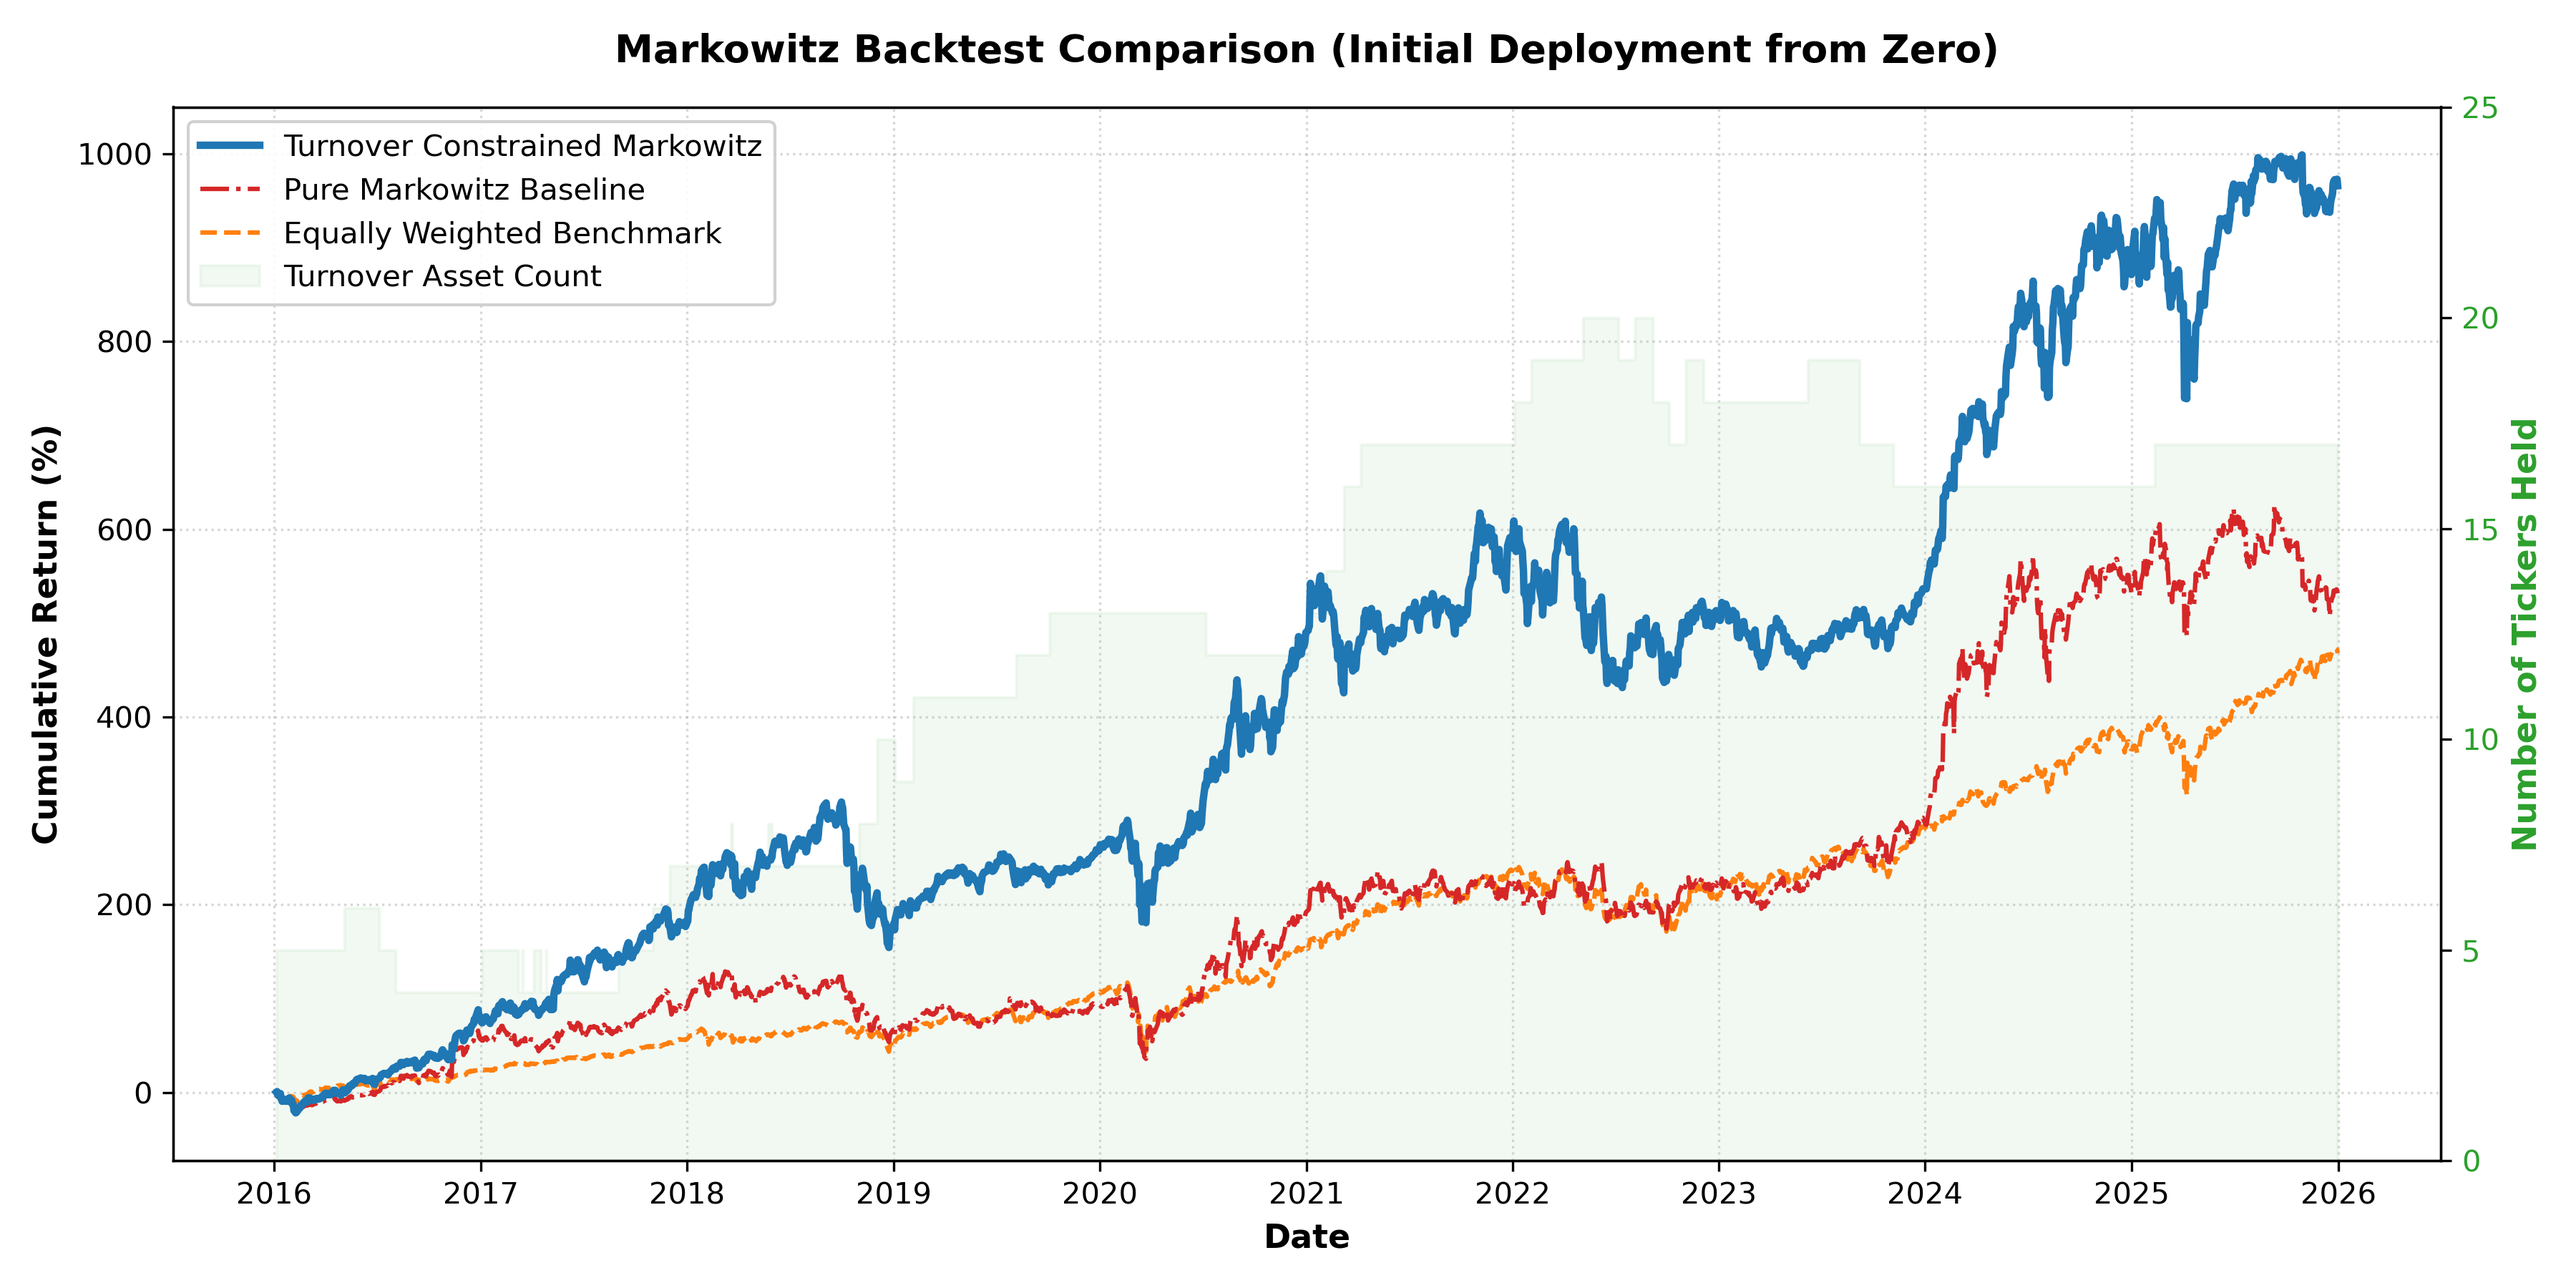
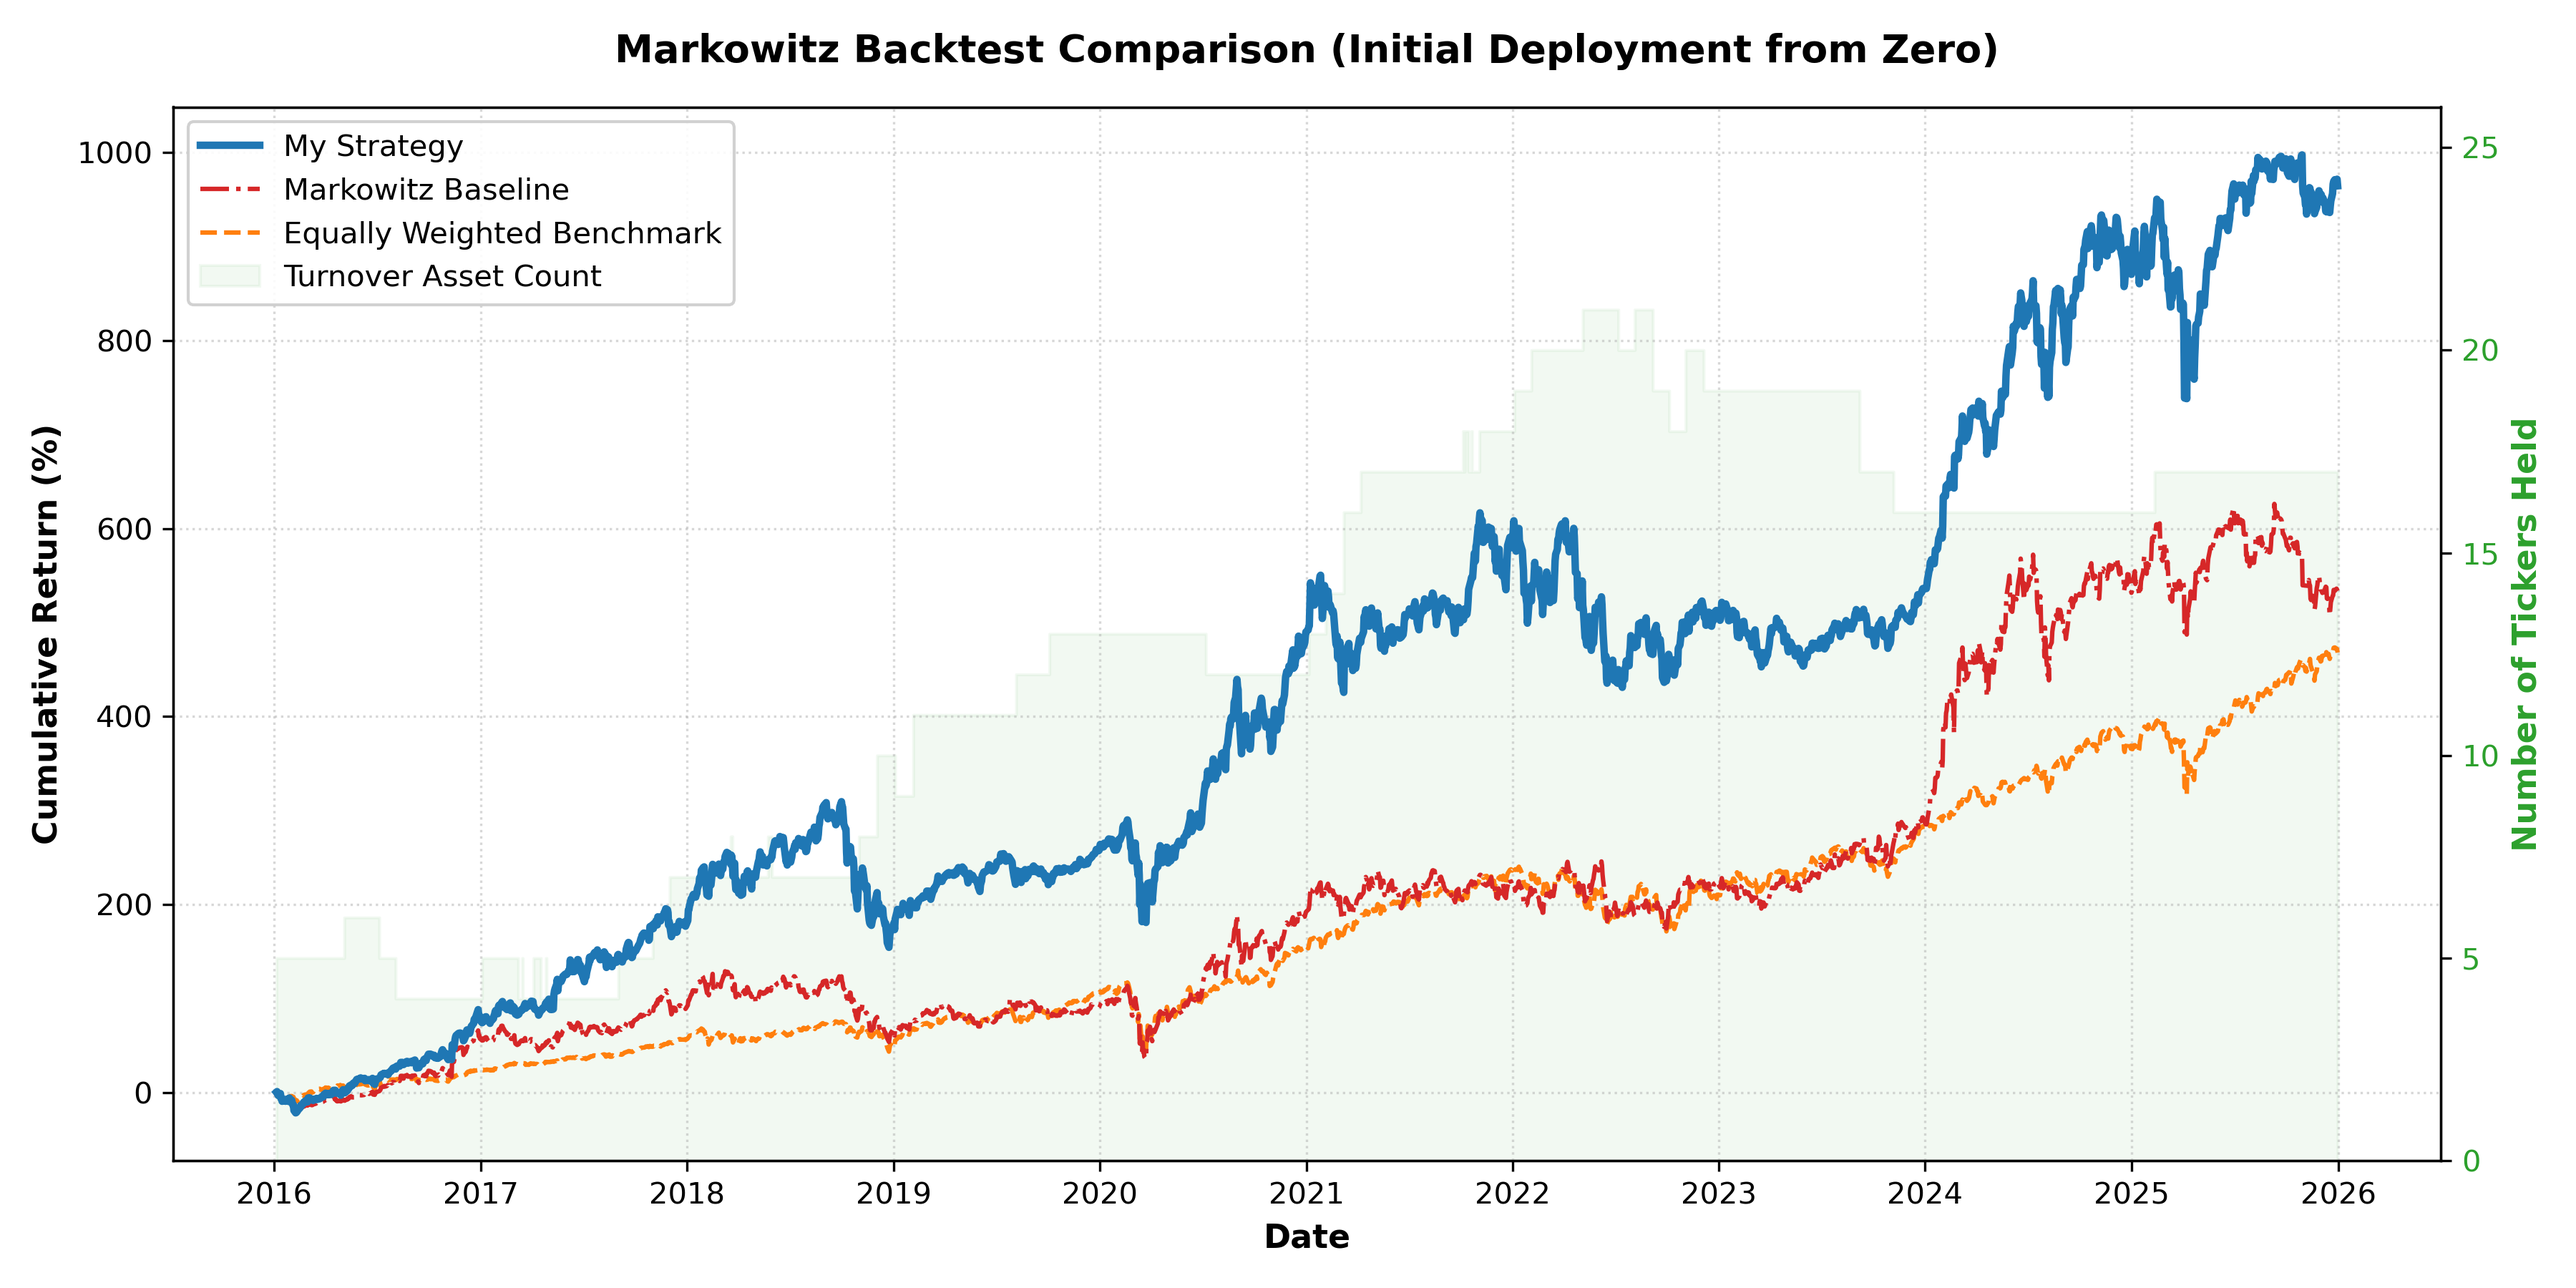
backtest again

diff --git a/backtest0.py b/backtest0.py
@@ -136,8 +136,8 @@ def evaluate_metrics(results_df, df_returns):
     results_df["Benchmark"] = benchmark_returns
 
     strategies = {
-        "Turnover Constrained Markowitz": "Strategy_Turnover",
-        "Pure Markowitz (Baseline)": "Strategy_Baseline",
+        "My Strategy": "Strategy_Turnover",
+        "Markowitz Baseline": "Strategy_Baseline",
         "Equally Weighted S&P 100 Index": "Benchmark",
     }
 
@@ -169,8 +169,8 @@ def plot_comparative_results(results_df):
     cum_baseline = (1 + results_df["Strategy_Baseline"]).cumprod() - 1
     cum_benchmark = (1 + results_df["Benchmark"]).cumprod() - 1
 
-    ax1.plot(cum_turnover.index, cum_turnover * 100, label="Turnover Constrained Markowitz", color="#1f77b4", linewidth=2.5, zorder=5)
-    ax1.plot(cum_baseline.index, cum_baseline * 100, label="Pure Markowitz Baseline", color="#d62728", linestyle="-.", linewidth=1.5, zorder=4)
+    ax1.plot(cum_turnover.index, cum_turnover * 100, label="My Strategy", color="#1f77b4", linewidth=2.5, zorder=5)
+    ax1.plot(cum_baseline.index, cum_baseline * 100, label="Markowitz Baseline", color="#d62728", linestyle="-.", linewidth=1.5, zorder=4)
     ax1.plot(cum_benchmark.index, cum_benchmark * 100, label="Equally Weighted Benchmark", color="#ff7f0e", linestyle="--", linewidth=1.5, zorder=3)
 
     ax1.set_xlabel("Date", fontsize=11, fontweight="bold")
